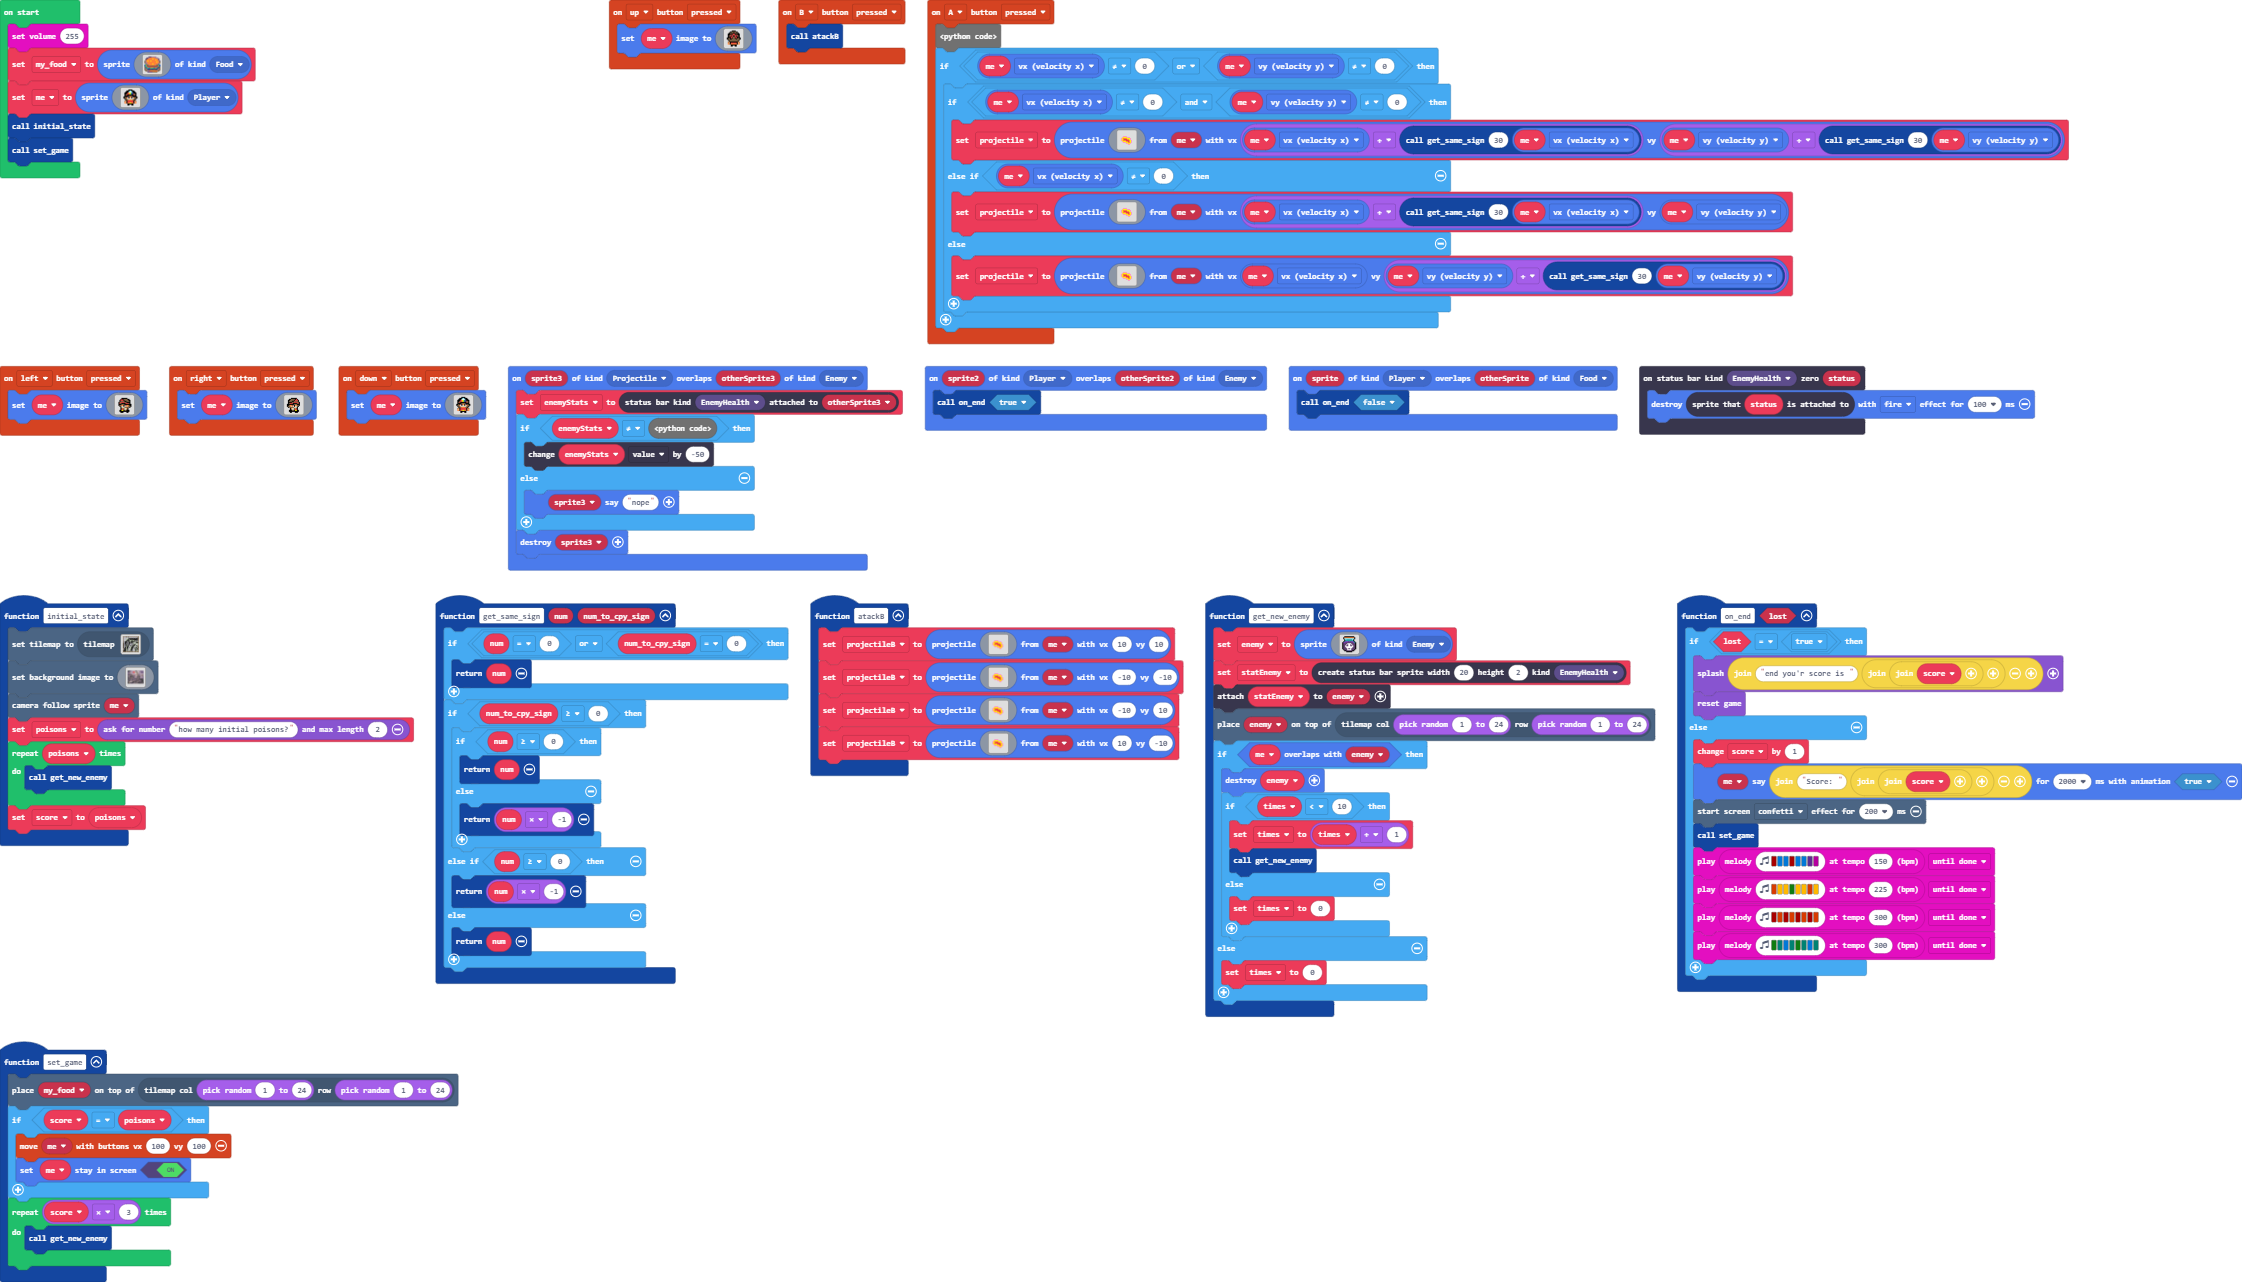
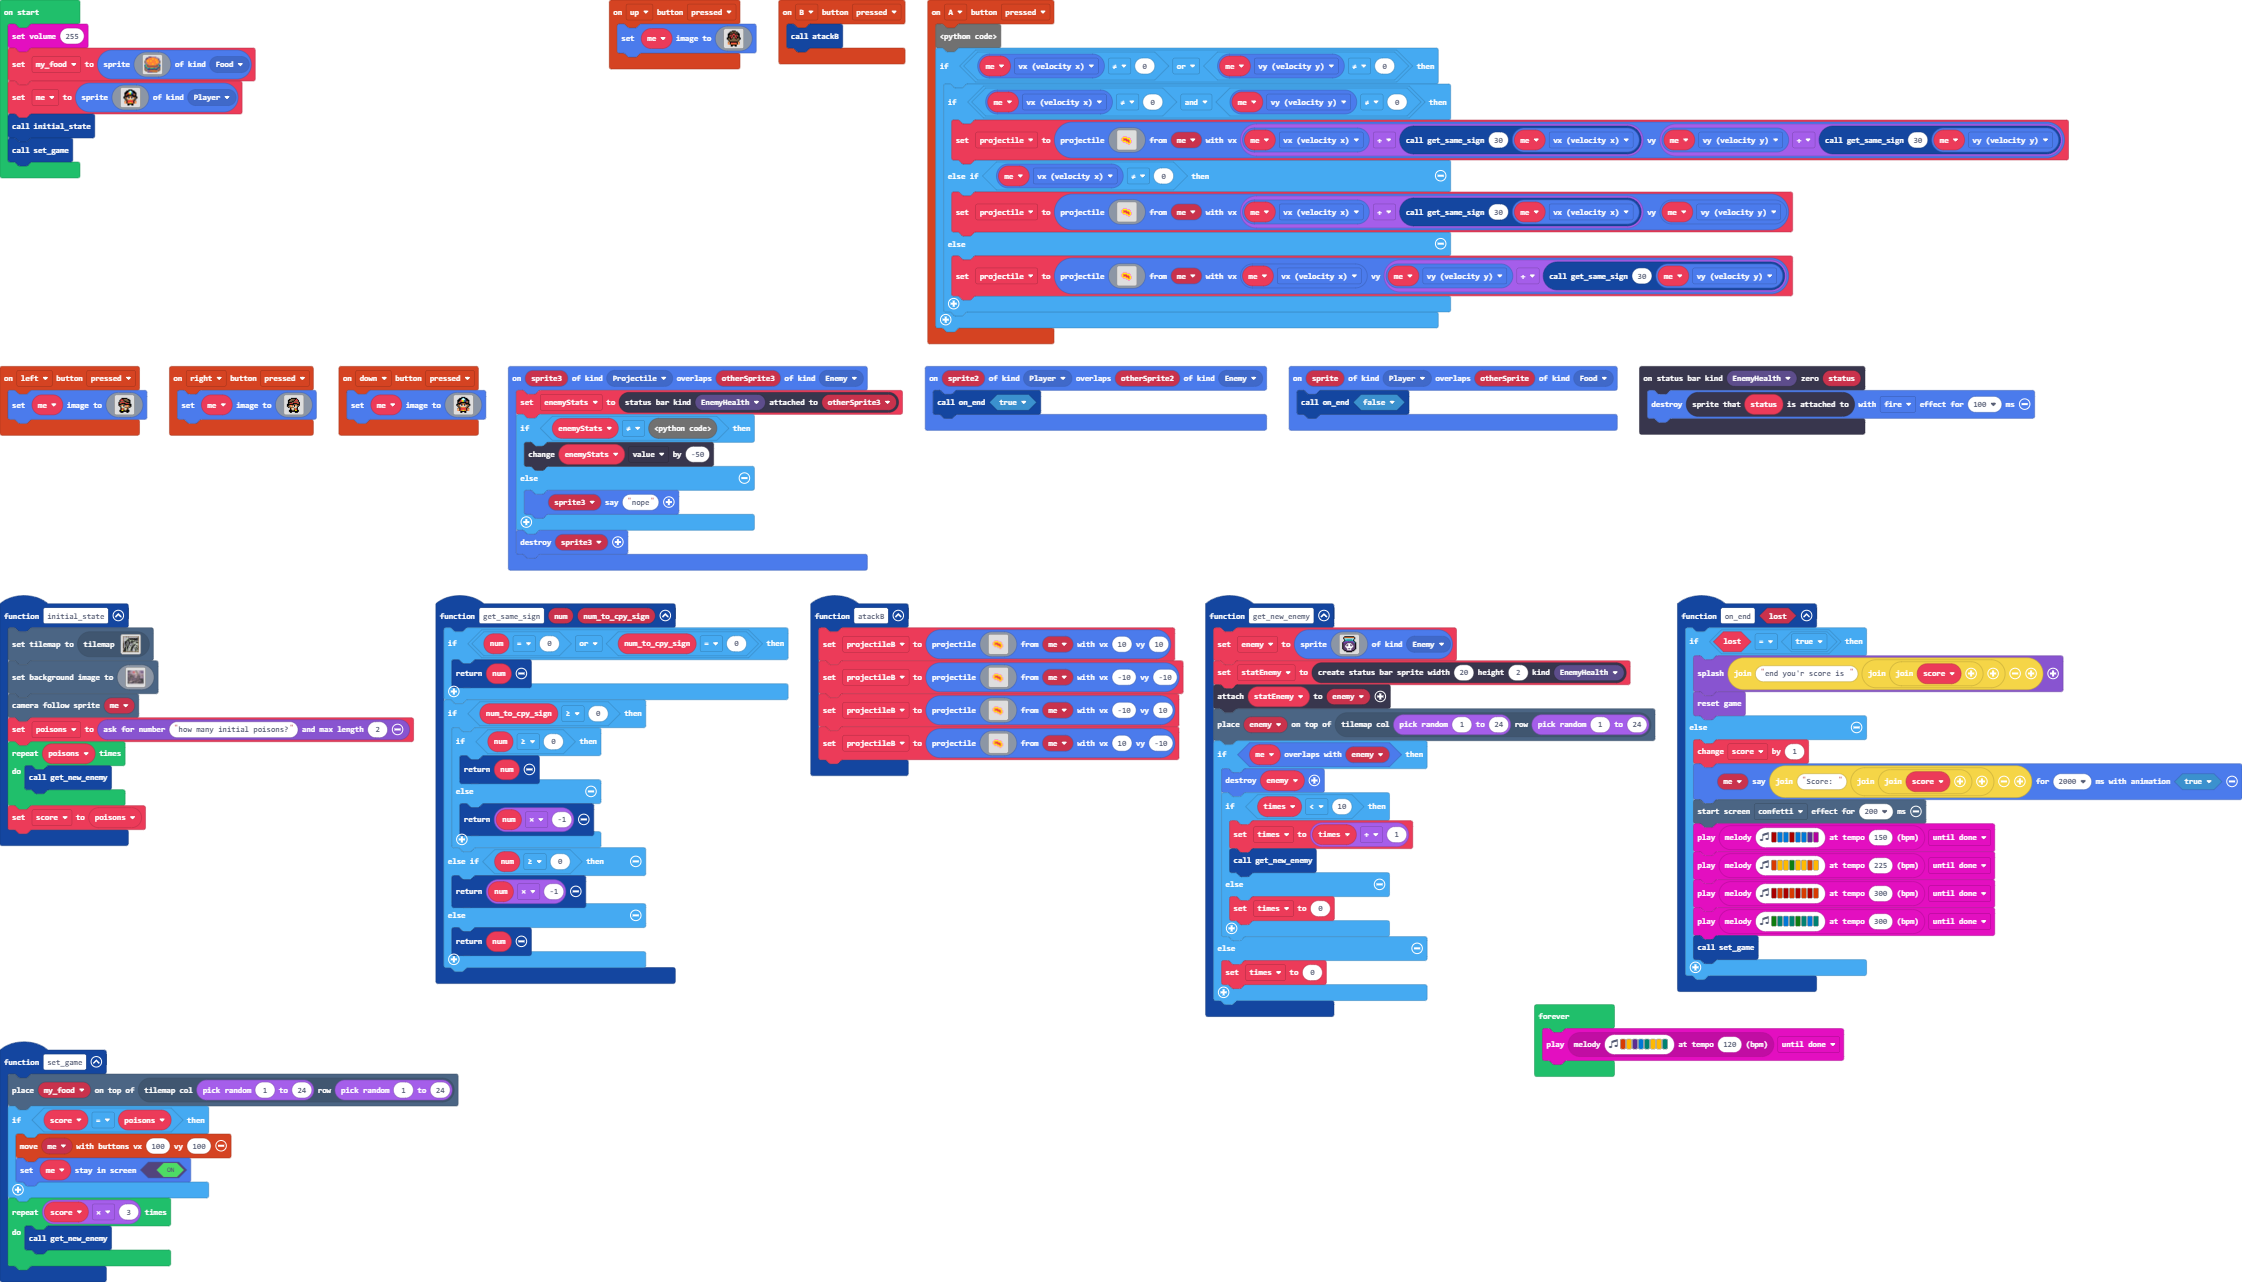
s

Changed region(s): [[0.7493, 0.624, 0.9054, 0.7488], [0.6869, 0.78, 0.843, 0.8424]]

diff --git a/main.ts b/main.ts
@@ -1,36 +1,52 @@
 namespace SpriteKind {
     export const humb = SpriteKind.create()
 }
-function set_game () {
+
+function set_game() {
     tiles.placeOnTile(my_food, tiles.getTileLocation(randint(1, 24), randint(1, 24)))
     if (score == poisons) {
         controller.moveSprite(me, 100, 100)
         me.setStayInScreen(true)
     }
+    
     for (let index = 0; index < score * 3; index++) {
         get_new_enemy()
     }
 }
-controller.up.onEvent(ControllerButtonEvent.Pressed, function () {
-    me.setImage(assets.image`play-p2`)
+
+controller.up.onEvent(ControllerButtonEvent.Pressed, function on_up_pressed() {
+    me.setImage(assets.image`
+        play-p2
+    `)
 })
-controller.B.onEvent(ControllerButtonEvent.Pressed, function () {
+controller.B.onEvent(ControllerButtonEvent.Pressed, function on_b_pressed() {
     atackB()
 })
-controller.A.onEvent(ControllerButtonEvent.Pressed, function () {
+controller.A.onEvent(ControllerButtonEvent.Pressed, function on_a_pressed() {
     let projectile: Sprite;
-if (me.vx != 0 || me.vy != 0) {
+    if (me.vx != 0 || me.vy != 0) {
         if (me.vx != 0 && me.vy != 0) {
-            projectile = sprites.createProjectileFromSprite(assets.image`dart`, me, me.vx + get_same_sign(30, me.vx), me.vy + get_same_sign(30, me.vy))
+            projectile = sprites.createProjectileFromSprite(assets.image`
+                    dart
+                `, me, me.vx + get_same_sign(30, me.vx), me.vy + get_same_sign(30, me.vy))
         } else if (me.vx != 0) {
-            projectile = sprites.createProjectileFromSprite(assets.image`dart`, me, me.vx + get_same_sign(30, me.vx), me.vy)
+            projectile = sprites.createProjectileFromSprite(assets.image`
+                    dart
+                `, me, me.vx + get_same_sign(30, me.vx), me.vy)
         } else {
-            projectile = sprites.createProjectileFromSprite(assets.image`dart`, me, me.vx, me.vy + get_same_sign(30, me.vy))
+            projectile = sprites.createProjectileFromSprite(assets.image`
+                    dart
+                `, me, me.vx, me.vy + get_same_sign(30, me.vy))
         }
+        
     }
+    
 })
-function get_new_enemy () {
-    enemy = sprites.create(assets.image`poison`, SpriteKind.Enemy)
+function get_new_enemy() {
+    
+    enemy = sprites.create(assets.image`
+        poison
+    `, SpriteKind.Enemy)
     statEnemy = statusbars.create(20, 2, StatusBarKind.EnemyHealth)
     statEnemy.attachToSprite(enemy)
     tiles.placeOnTile(enemy, tiles.getTileLocation(randint(1, 24), randint(1, 24)))
@@ -42,95 +58,136 @@ function get_new_enemy () {
         } else {
             times = 0
         }
+        
     } else {
         times = 0
     }
+    
 }
-controller.left.onEvent(ControllerButtonEvent.Pressed, function () {
-    me.setImage(assets.image`play-p1`)
+
+controller.left.onEvent(ControllerButtonEvent.Pressed, function on_left_pressed() {
+    me.setImage(assets.image`
+        play-p1
+    `)
 })
-sprites.onOverlap(SpriteKind.Player, SpriteKind.Enemy, function (sprite2, otherSprite2) {
+sprites.onOverlap(SpriteKind.Player, SpriteKind.Enemy, function on_on_overlap(sprite2: Sprite, otherSprite2: Sprite) {
     on_end(true)
 })
-statusbars.onZero(StatusBarKind.EnemyHealth, function (status) {
+statusbars.onZero(StatusBarKind.EnemyHealth, function on_on_zero(status: StatusBarSprite) {
     sprites.destroy(status.spriteAttachedTo(), effects.fire, 100)
 })
-controller.right.onEvent(ControllerButtonEvent.Pressed, function () {
-    me.setImage(assets.image`play-p3`)
+controller.right.onEvent(ControllerButtonEvent.Pressed, function on_right_pressed() {
+    me.setImage(assets.image`
+        play-p3
+    `)
 })
-function initial_state () {
-    tiles.setCurrentTilemap(tilemap`level`)
-    scene.setBackgroundImage(assets.image`lib2`)
+function initial_state() {
+    
+    tiles.setCurrentTilemap(tilemap`
+        level
+    `)
+    scene.setBackgroundImage(assets.image`
+        lib2
+    `)
     scene.cameraFollowSprite(me)
-    poisons = game.askForNumber("how many initial poisons?", 2)
-    for (let index = 0; index < poisons; index++) {
+    poisons = game.askForNumber("How many initial poisons?", 2)
+    for (let index2 = 0; index2 < poisons; index2++) {
         get_new_enemy()
     }
     score = poisons
 }
-function atackB () {
-    projectileB = sprites.createProjectileFromSprite(assets.image`dart`, me, 10, 10)
-    projectileB = sprites.createProjectileFromSprite(assets.image`dart`, me, -10, -10)
-    projectileB = sprites.createProjectileFromSprite(assets.image`dart`, me, -10, 10)
-    projectileB = sprites.createProjectileFromSprite(assets.image`dart`, me, 10, -10)
+
+function atackB() {
+    
+    projectileB = sprites.createProjectileFromSprite(assets.image`
+        dart
+    `, me, 10, 10)
+    projectileB = sprites.createProjectileFromSprite(assets.image`
+        dart
+    `, me, -10, -10)
+    projectileB = sprites.createProjectileFromSprite(assets.image`
+        dart
+    `, me, -10, 10)
+    projectileB = sprites.createProjectileFromSprite(assets.image`
+        dart
+    `, me, 10, -10)
 }
-controller.down.onEvent(ControllerButtonEvent.Pressed, function () {
-    me.setImage(assets.image`play-front`)
+
+controller.down.onEvent(ControllerButtonEvent.Pressed, function on_down_pressed() {
+    me.setImage(assets.image`
+        play-front
+    `)
 })
-function get_same_sign (num: number, num_to_cpy_sign: number) {
+function get_same_sign(num: number, num_to_cpy_sign: number): number {
     if (num == 0 || num_to_cpy_sign == 0) {
         return num
     }
+    
     if (num_to_cpy_sign >= 0) {
         if (num >= 0) {
             return num
         } else {
             return num * -1
         }
+        
     } else if (num >= 0) {
         return num * -1
     } else {
         return num
     }
+    
 }
-sprites.onOverlap(SpriteKind.Player, SpriteKind.Food, function (sprite, otherSprite) {
+
+sprites.onOverlap(SpriteKind.Player, SpriteKind.Food, function on_on_overlap2(sprite: Sprite, otherSprite: Sprite) {
     on_end(false)
 })
-function on_end (lost: boolean) {
+function on_end(lost: boolean) {
+    
     if (lost == true) {
-        game.splash("end you'r score is " + ("" + score))
+        game.splash("end you'r score is " + ("" + ("" + score)))
         game.reset()
     } else {
         score += 1
-        me.sayText("Score: " + ("" + score), 2000, true)
+        me.sayText("Score: " + ("" + ("" + score)), 2000, true)
         effects.confetti.startScreenEffect(200)
-        set_game()
         music.play(music.stringPlayable("C5 E E C5 E E D C ", 150), music.PlaybackMode.UntilDone)
         music.play(music.stringPlayable("B A A G A A B A ", 225), music.PlaybackMode.UntilDone)
         music.play(music.stringPlayable("C5 B C5 B C5 B C5 B ", 300), music.PlaybackMode.UntilDone)
         music.play(music.stringPlayable("G F E F G F E F ", 300), music.PlaybackMode.UntilDone)
+        set_game()
     }
+    
 }
-sprites.onOverlap(SpriteKind.Projectile, SpriteKind.Enemy, function (sprite3, otherSprite3) {
+
+sprites.onOverlap(SpriteKind.Projectile, SpriteKind.Enemy, function on_on_overlap3(sprite3: Sprite, otherSprite3: Sprite) {
+    
     enemyStats = statusbars.getStatusBarAttachedTo(StatusBarKind.EnemyHealth, otherSprite3)
     if (enemyStats != null) {
         enemyStats.value += -50
     } else {
         sprite3.sayText("nope")
     }
+    
     sprites.destroy(sprite3)
 })
-let enemyStats: StatusBarSprite = null
-let projectileB: Sprite = null
+let enemyStats : StatusBarSprite = null
+let projectileB : Sprite = null
 let times = 0
-let statEnemy: StatusBarSprite = null
-let enemy: Sprite = null
+let statEnemy : StatusBarSprite = null
+let enemy : Sprite = null
 let poisons = 0
 let score = 0
-let me: Sprite = null
-let my_food: Sprite = null
+let me : Sprite = null
+let my_food : Sprite = null
 music.setVolume(255)
-my_food = sprites.create(assets.image`burger`, SpriteKind.Food)
-me = sprites.create(assets.image`play-front`, SpriteKind.Player)
+my_food = sprites.create(assets.image`
+    burger
+`, SpriteKind.Food)
+me = sprites.create(assets.image`
+    play-front
+`, SpriteKind.Player)
 initial_state()
 set_game()
+forever(function on_forever() {
+    music.play(music.stringPlayable("B A D E F A A F ", 120), music.PlaybackMode.UntilDone)
+})

diff --git a/tilemap.g.ts b/tilemap.g.ts
@@ -70,6 +70,25 @@ namespace myTiles {
 2.......................2
 2222222222222222222222222
 `, [myTiles.transparency16,sprites.builtin.oceanDepths8,sprites.castle.tilePath2,myTiles.tile2,myTiles.tile3,myTiles.tile4,myTiles.tile5,myTiles.tile7,myTiles.tile8,myTiles.tile9,myTiles.tile1,myTiles.tile6], TileScale.Sixteen);
+            case "level3":
+            case "level3":return tiles.createTilemap(hex`1000100000000000000000000000000000000000000000000000000000000000000000000000000000000000000000000000000000000000000000000000000000000000000000000000000000000000000000000000000000000000000000000000000000000000000000000000000000000000000000000000000000000000000000000000000000000000000000000000000000000000000000000000000000000000000000000000000000000000000000000000000000000000000000000000000000000000000000000000000000000000000000000000000000000000000000000000000000000000000000000000000000000000000000000000000000000000`, img`
+. . . . . . . . . . . . . . . . 
+. . . . . . . . . . . . . . . . 
+. . . . . . . . . . . . . . . . 
+. . . . . . . . . . . . . . . . 
+. . . . . . . . . . . . . . . . 
+. . . . . . . . . . . . . . . . 
+. . . . . . . . . . . . . . . . 
+. . . . . . . . . . . . . . . . 
+. . . . . . . . . . . . . . . . 
+. . . . . . . . . . . . . . . . 
+. . . . . . . . . . . . . . . . 
+. . . . . . . . . . . . . . . . 
+. . . . . . . . . . . . . . . . 
+. . . . . . . . . . . . . . . . 
+. . . . . . . . . . . . . . . . 
+. . . . . . . . . . . . . . . . 
+`, [myTiles.transparency16], TileScale.Sixteen);
         }
         return null;
     })

diff --git a/main.py b/main.py
@@ -93,7 +93,7 @@ def initial_state():
         lib2
     """))
     scene.camera_follow_sprite(me)
-    poisons = game.ask_for_number("how many initial poisons?", 2)
+    poisons = game.ask_for_number("How many initial poisons?", 2)
     for index2 in range(poisons):
         get_new_enemy()
     score = poisons
